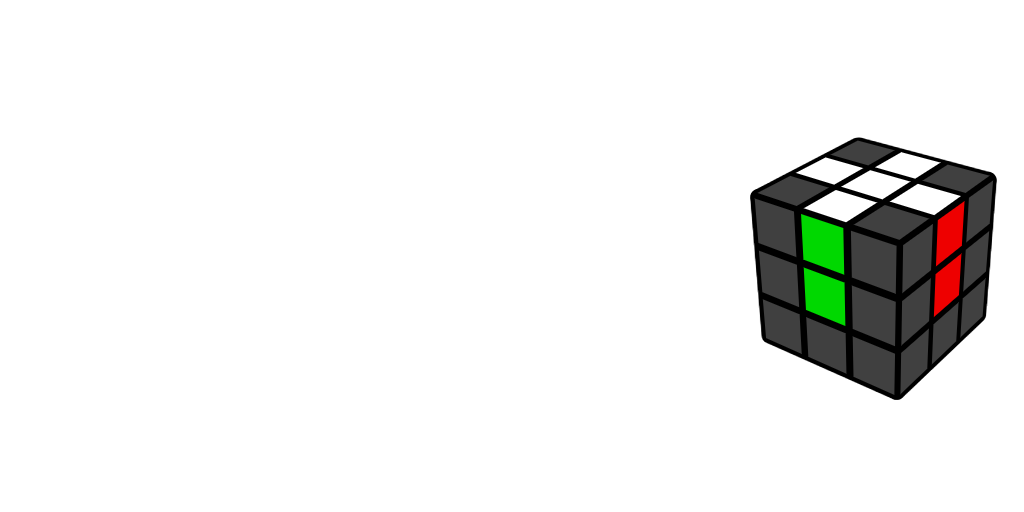
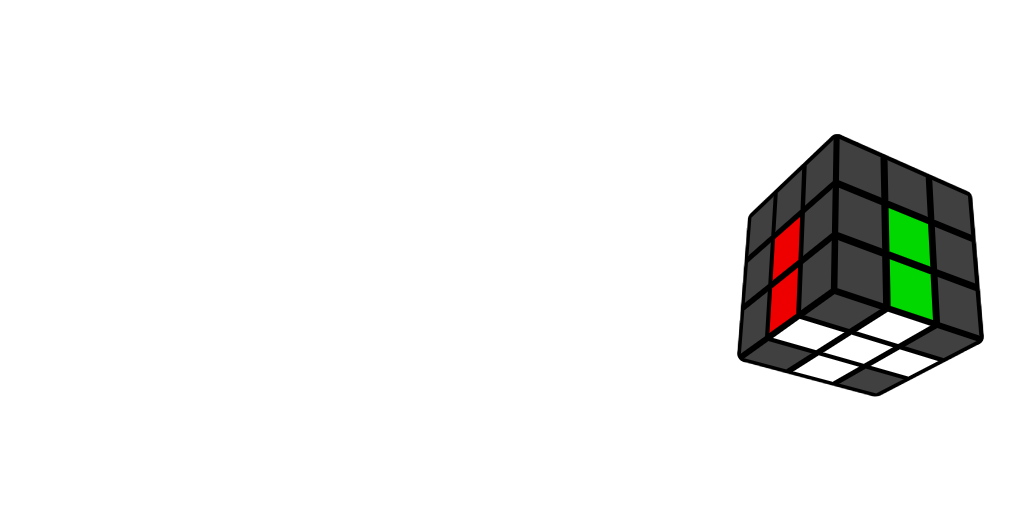
added stage images (hint1-7.png), fixed bug where specific wrong piece was being highlighted, updated colorblind shapes

Changed region(s): [[0.7188, 0.25, 1.0, 0.7812]]

diff --git a/qb_solver/__init__.py b/qb_solver/__init__.py
@@ -525,6 +525,25 @@ def updateCurrentHint(hintText, hintPicture, next_piece, next_stage):
     
     current_piece = next_piece
     current_stage = next_stage
+
+    print(current_stage)
+    if current_stage == 0:
+        hintDisplay.icon = 'hint1'
+        print('test')
+    elif current_stage == 1:
+        hintDisplay.icon = 'hint2'
+        print('test2')
+    elif current_stage == 2:
+        hintDisplay.icon = 'hint3'
+    elif current_stage == 3:
+        hintDisplay.icon = 'hint4'
+    elif current_stage == 4:
+        hintDisplay.icon = 'hint5'
+    elif current_stage == 5:
+        hintDisplay.icon = 'hint6'
+    elif current_stage == 6:
+        hintDisplay.icon = 'hint7'
+
     if blinking:
         cube.unblink()
         cube.blink(current_piece)

diff --git a/qb_solver/visCube.py b/qb_solver/visCube.py
@@ -516,10 +516,10 @@ class VisCube(Entity):
         if "O" in current_piece.colors: #does bottom layer
             if "W" in current_piece.colors:
                 if "B" in current_piece.colors:
-                    self.startBlink(self.WGO)
+                    self.startBlink(self.WOB)
                     return
                 if "G" in current_piece.colors:
-                    self.startBlink(self.WOB)
+                    self.startBlink(self.WGO)
                     return
                 self.startBlink(self.WO)
                 return
